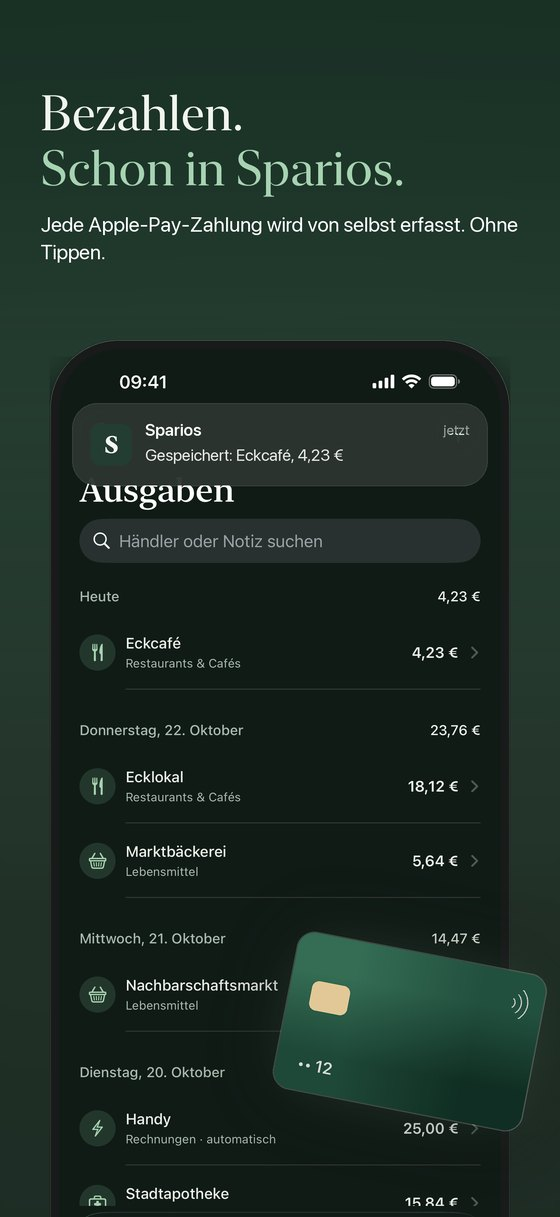
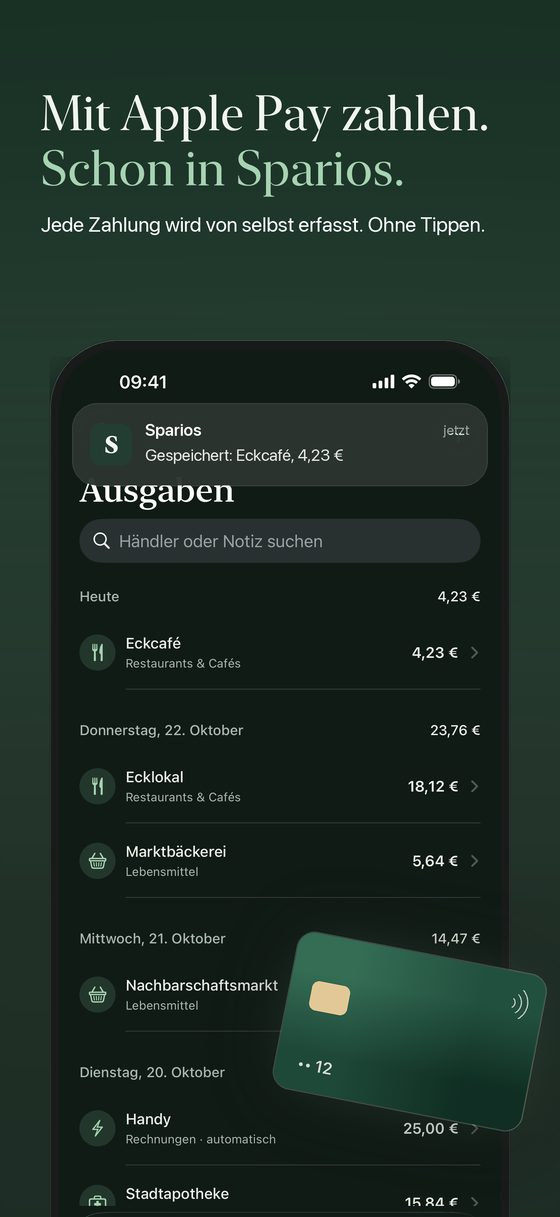
Site: başlık ve ilk görsel Apple Pay'i adıyla söylüyor
Claude-Session: https://claude.ai/code/session_01HaMjFo9LyfMcP9m9g2oW7Q

diff --git a/docs/de/index.html b/docs/de/index.html
@@ -16,7 +16,7 @@
 <link rel="stylesheet" href="../style.css">
 </head>
 <body class="home">
-<div class="stage"><div class="wrap wide"><header class="top"><a class="brand" href="./"><img src="../assets/icon-192.png" alt="">Sparios</a><nav class="langs" aria-label="Sprache"><a href="../tr/" hreflang="tr" lang="tr">TR</a><a href="../en/" hreflang="en" lang="en">EN</a><a href="../de/" hreflang="de" lang="de" aria-current="true">DE</a></nav></header><section class="hero"><div class="copy"><h1>Bezahlen.<br>Sparios schreibt mit.</h1><p class="sub">Ein Ausgabenbuch, das sich selbst füllt. Zahl mit jeder Karte aus deinem Wallet und sieh, was diesen Monat übrig ist. Kein Bank-Login, kein Konto, nichts verlässt dein iPhone.</p><div class="ctas"><span class="pill soon">Bald im App Store</span><a class="pill coffee-hero" href="https://www.buymeacoffee.com/sparios" rel="noopener">☕ Spendier mir einen Kaffee</a></div><ul class="trust"><li>Kostenlos</li><li>Kein Konto</li><li>Kein Tracking</li></ul></div><div class="art"><img src="../assets/de/hero.webp" width="960" height="1144" alt="Sparios auf dem iPhone"></div></section></div></div>
+<div class="stage"><div class="wrap wide"><header class="top"><a class="brand" href="./"><img src="../assets/icon-192.png" alt="">Sparios</a><nav class="langs" aria-label="Sprache"><a href="../tr/" hreflang="tr" lang="tr">TR</a><a href="../en/" hreflang="en" lang="en">EN</a><a href="../de/" hreflang="de" lang="de" aria-current="true">DE</a></nav></header><section class="hero"><div class="copy"><h1>Mit Apple Pay zahlen.<br>Sparios schreibt mit.</h1><p class="sub">Ein Ausgabenbuch, das sich selbst füllt. Zahl mit jeder Karte aus deinem Wallet und sieh, was diesen Monat übrig ist. Kein Bank-Login, kein Konto, nichts verlässt dein iPhone.</p><div class="ctas"><span class="pill soon">Bald im App Store</span><a class="pill coffee-hero" href="https://www.buymeacoffee.com/sparios" rel="noopener">☕ Spendier mir einen Kaffee</a></div><ul class="trust"><li>Kostenlos</li><li>Kein Konto</li><li>Kein Tracking</li></ul></div><div class="art"><img src="../assets/de/hero.webp" width="960" height="1144" alt="Sparios auf dem iPhone"></div></section></div></div>
 <div class="wrap wide">
 
 <main>

diff --git a/docs/tr/index.html b/docs/tr/index.html
@@ -16,7 +16,7 @@
 <link rel="stylesheet" href="../style.css">
 </head>
 <body class="home">
-<div class="stage"><div class="wrap wide"><header class="top"><a class="brand" href="./"><img src="../assets/icon-192.png" alt="">Sparios</a><nav class="langs" aria-label="Dil"><a href="../tr/" hreflang="tr" lang="tr" aria-current="true">TR</a><a href="../en/" hreflang="en" lang="en">EN</a><a href="../de/" hreflang="de" lang="de">DE</a></nav></header><section class="hero"><div class="copy"><h1>Öde.<br>Sparios not alsın.</h1><p class="sub">Kendi kendine dolan bir harcama defteri. Wallet’taki hangi kartla ödersen öde, bu ay ne kaldığını gör. Banka girişi yok, hesap yok, hiçbir şey iPhone’undan çıkmaz.</p><div class="ctas"><span class="pill soon">Yakında App Store’da</span><a class="pill coffee-hero" href="https://www.buymeacoffee.com/sparios" rel="noopener">☕ Bir kahve ısmarla</a></div><ul class="trust"><li>Ücretsiz</li><li>Hesap yok</li><li>Takip yok</li></ul></div><div class="art"><img src="../assets/tr/hero.webp" width="960" height="1144" alt="iPhone’da Sparios"></div></section></div></div>
+<div class="stage"><div class="wrap wide"><header class="top"><a class="brand" href="./"><img src="../assets/icon-192.png" alt="">Sparios</a><nav class="langs" aria-label="Dil"><a href="../tr/" hreflang="tr" lang="tr" aria-current="true">TR</a><a href="../en/" hreflang="en" lang="en">EN</a><a href="../de/" hreflang="de" lang="de">DE</a></nav></header><section class="hero"><div class="copy"><h1>Apple Pay ile öde.<br>Sparios not alsın.</h1><p class="sub">Kendi kendine dolan bir harcama defteri. Wallet’taki hangi kartla ödersen öde, bu ay ne kaldığını gör. Banka girişi yok, hesap yok, hiçbir şey iPhone’undan çıkmaz.</p><div class="ctas"><span class="pill soon">Yakında App Store’da</span><a class="pill coffee-hero" href="https://www.buymeacoffee.com/sparios" rel="noopener">☕ Bir kahve ısmarla</a></div><ul class="trust"><li>Ücretsiz</li><li>Hesap yok</li><li>Takip yok</li></ul></div><div class="art"><img src="../assets/tr/hero.webp" width="960" height="1144" alt="iPhone’da Sparios"></div></section></div></div>
 <div class="wrap wide">
 
 <main>

diff --git a/docs/en/index.html b/docs/en/index.html
@@ -16,7 +16,7 @@
 <link rel="stylesheet" href="../style.css">
 </head>
 <body class="home">
-<div class="stage"><div class="wrap wide"><header class="top"><a class="brand" href="./"><img src="../assets/icon-192.png" alt="">Sparios</a><nav class="langs" aria-label="Language"><a href="../tr/" hreflang="tr" lang="tr">TR</a><a href="../en/" hreflang="en" lang="en" aria-current="true">EN</a><a href="../de/" hreflang="de" lang="de">DE</a></nav></header><section class="hero"><div class="copy"><h1>Tap to pay.<br>Sparios writes it down.</h1><p class="sub">A spending journal that fills itself in. Pay with any card in your Wallet and see what’s left this month. No bank login, no account, nothing leaves your iPhone.</p><div class="ctas"><span class="pill soon">Coming soon to the App Store</span><a class="pill coffee-hero" href="https://www.buymeacoffee.com/sparios" rel="noopener">☕ Buy me a coffee</a></div><ul class="trust"><li>Free</li><li>No account</li><li>No tracking</li></ul></div><div class="art"><img src="../assets/en/hero.webp" width="960" height="1144" alt="Sparios on iPhone"></div></section></div></div>
+<div class="stage"><div class="wrap wide"><header class="top"><a class="brand" href="./"><img src="../assets/icon-192.png" alt="">Sparios</a><nav class="langs" aria-label="Language"><a href="../tr/" hreflang="tr" lang="tr">TR</a><a href="../en/" hreflang="en" lang="en" aria-current="true">EN</a><a href="../de/" hreflang="de" lang="de">DE</a></nav></header><section class="hero"><div class="copy"><h1>Pay with Apple Pay.<br>Sparios writes it down.</h1><p class="sub">A spending journal that fills itself in. Pay with any card in your Wallet and see what’s left this month. No bank login, no account, nothing leaves your iPhone.</p><div class="ctas"><span class="pill soon">Coming soon to the App Store</span><a class="pill coffee-hero" href="https://www.buymeacoffee.com/sparios" rel="noopener">☕ Buy me a coffee</a></div><ul class="trust"><li>Free</li><li>No account</li><li>No tracking</li></ul></div><div class="art"><img src="../assets/en/hero.webp" width="960" height="1144" alt="Sparios on iPhone"></div></section></div></div>
 <div class="wrap wide">
 
 <main>

diff --git a/build.py b/build.py
@@ -74,7 +74,7 @@ COFFEE_URL = "https://www.buymeacoffee.com/sparios"
 HOME = {
     "en": {
         "title": "Sparios · A spending journal that fills itself in",
-        "hero": "Tap to pay.<br>Sparios writes it down.",
+        "hero": "Pay with Apple Pay.<br>Sparios writes it down.",
         "sub": "A spending journal that fills itself in. Pay with any card in your Wallet and see what’s left this month. No bank login, no account, nothing leaves your iPhone.",
         "soon": "Coming soon to the App Store", "get": "Free on the App Store",
         "trust": ["Free", "No account", "No tracking"],
@@ -98,7 +98,7 @@ HOME = {
     },
     "tr": {
         "title": "Sparios · Kendi kendine dolan harcama defteri",
-        "hero": "Öde.<br>Sparios not alsın.",
+        "hero": "Apple Pay ile öde.<br>Sparios not alsın.",
         "sub": "Kendi kendine dolan bir harcama defteri. Wallet’taki hangi kartla ödersen öde, bu ay ne kaldığını gör. Banka girişi yok, hesap yok, hiçbir şey iPhone’undan çıkmaz.",
         "soon": "Yakında App Store’da", "get": "App Store’da ücretsiz",
         "trust": ["Ücretsiz", "Hesap yok", "Takip yok"],
@@ -122,7 +122,7 @@ HOME = {
     },
     "de": {
         "title": "Sparios · Ein Ausgabenbuch, das sich selbst füllt",
-        "hero": "Bezahlen.<br>Sparios schreibt mit.",
+        "hero": "Mit Apple Pay zahlen.<br>Sparios schreibt mit.",
         "sub": "Ein Ausgabenbuch, das sich selbst füllt. Zahl mit jeder Karte aus deinem Wallet und sieh, was diesen Monat übrig ist. Kein Bank-Login, kein Konto, nichts verlässt dein iPhone.",
         "soon": "Bald im App Store", "get": "Kostenlos im App Store",
         "trust": ["Kostenlos", "Kein Konto", "Kein Tracking"],
